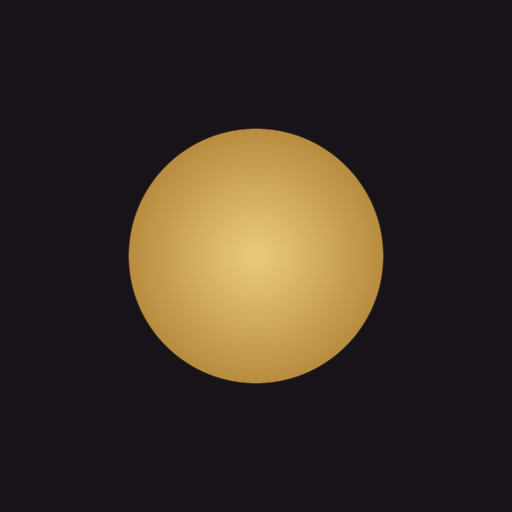
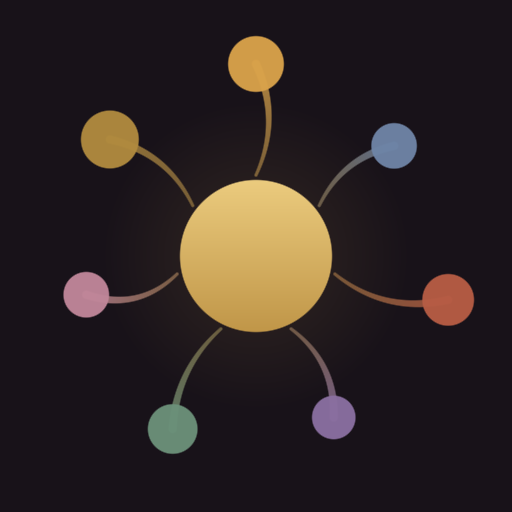
settle countdown + default 10

Changed region(s): [[0.125, 0.0625, 0.9375, 0.9062], [0.4688, 0.5, 0.5312, 0.5312]]

diff --git a/404.html b/404.html
@@ -40,6 +40,6 @@
     </noscript>
     <!-- The root element for your Expo app. -->
     <div id="root"></div>
-  <script src="/the-morning-method/_expo/static/js/web/entry-81182072826f2037a9f0b2c527bfb6ea.js" defer></script>
+  <script src="/the-morning-method/_expo/static/js/web/entry-27858bb1a491253f6b7d451be793234b.js" defer></script>
 </body>
 </html>

diff --git a/index.html b/index.html
@@ -40,6 +40,6 @@
     </noscript>
     <!-- The root element for your Expo app. -->
     <div id="root"></div>
-  <script src="/the-morning-method/_expo/static/js/web/entry-81182072826f2037a9f0b2c527bfb6ea.js" defer></script>
+  <script src="/the-morning-method/_expo/static/js/web/entry-27858bb1a491253f6b7d451be793234b.js" defer></script>
 </body>
 </html>